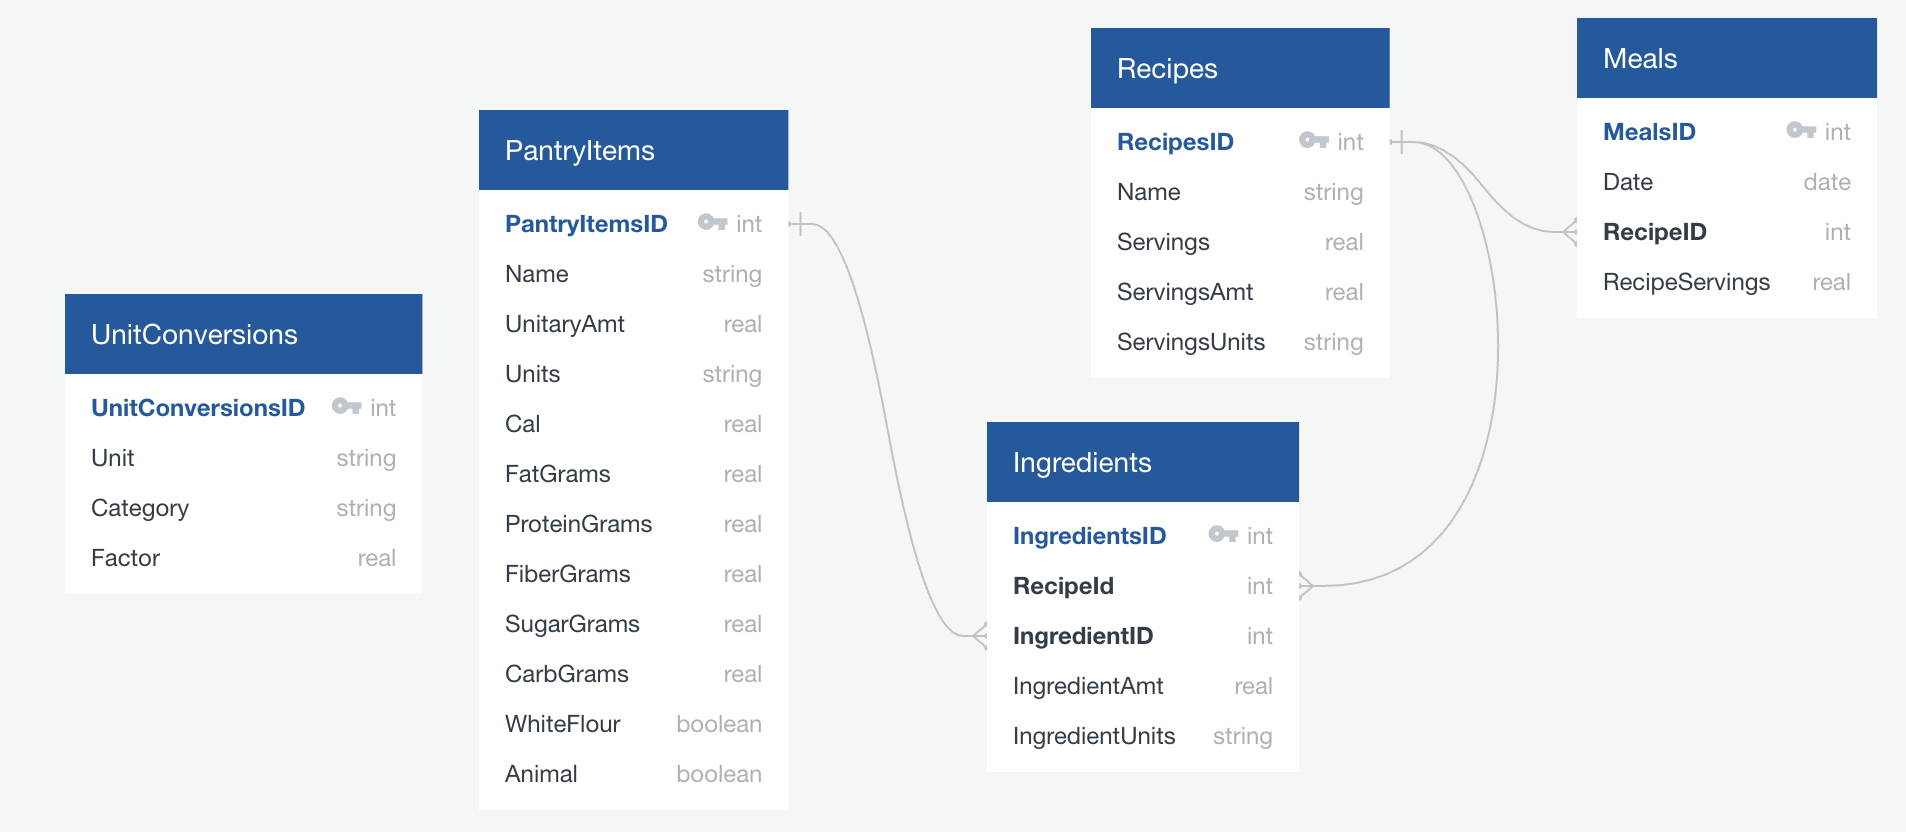
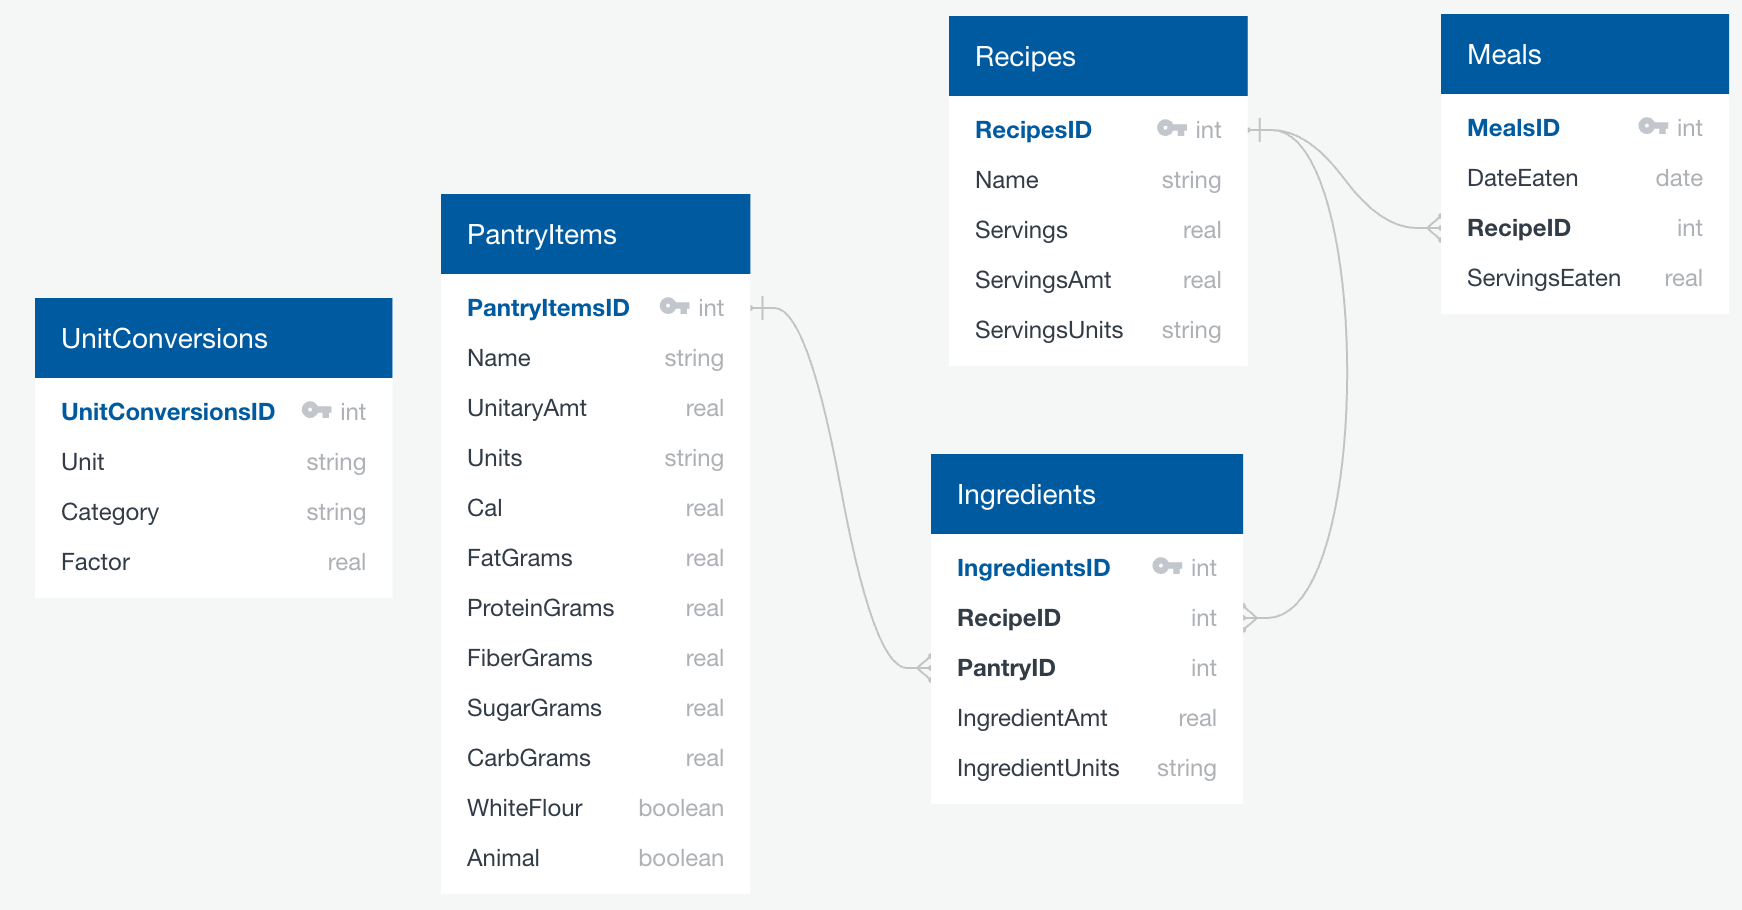
Update schema diagram

diff --git a/README.md b/README.md
@@ -250,7 +250,7 @@ v2: GUI for data entry and display
 
 TODOs:
 v2:
-- FEATURE: Finish UI for data load (add pantry items). May leave meals as csv via CLI, that's not too bad right now.
+- FEATURE: Finish UI for data load (add pantry items). May leave meals as csv via CLI, that's not too bad right now. Currently reviewing the plan.
 - Code review of webapp.py.
 - Todos in test_display_meal_totals.py
 - Remove dups from list of recipies missing from db on meals load
